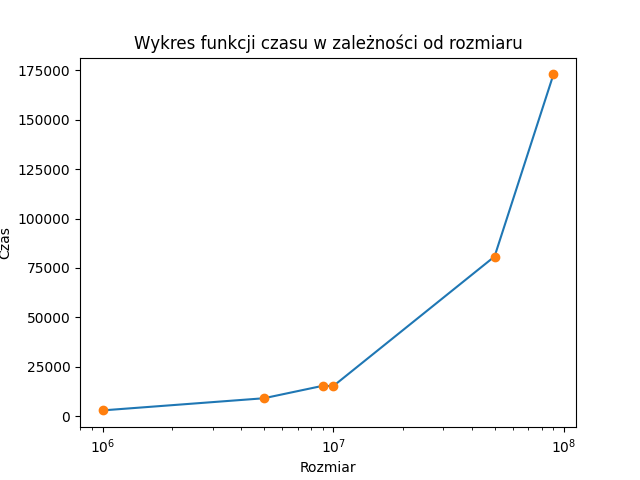
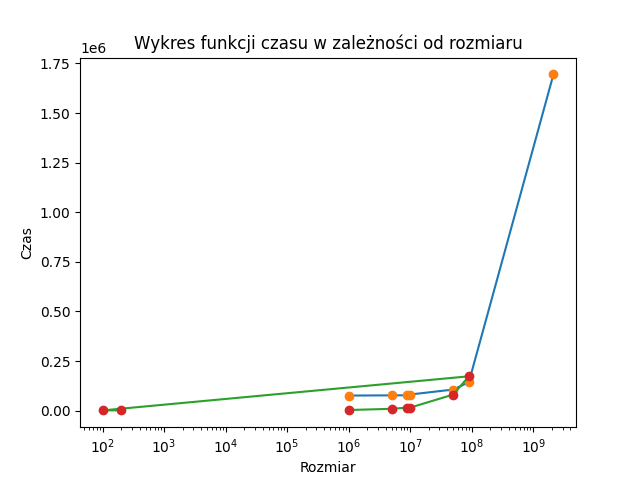
profiling preparation

diff --git a/main.py b/main.py
@@ -34,36 +34,29 @@ def read_csv(file_path):
     return avg_data.keys(), avg_data.values()
 
 
-def plot_and_save_data(sizes, times, plot_path):
+def plot_and_save_data(pairs, plot_path):
     plt.clf()
+    for sizes, times in pairs:
+        plt.plot(sizes, times, '-')
+        plt.plot(sizes, times, 'o')
 
-    # Connect the points with a line
-    plt.plot(sizes, times, '-')
-
-    # Create a plot
-    plt.plot(sizes, times, 'o')
-
-    # Add a title
+    plt.xscale('log')
     plt.title('Wykres funkcji czasu w zależności od rozmiaru')
-
-    # Add labels
     plt.xlabel('Rozmiar')
     plt.ylabel('Czas')
-
-    # Save the plot
-    plt.xscale('log')
     plt.savefig(plot_path)
 
 
 def main():
-    file_names = ['outputEraGPU', 'outputEraCPU', 'outputSundaGPU', 'outputSundaCPU']
+    groups = [['outputEraGPU', 'outputEraCPU'], ['outputSundaGPU', 'outputSundaCPU']]
 
-    for file_name in file_names:
-        # Read the CSV file
-        sizes, times = read_csv(f'{file_name}.csv')
+    for group in groups:
+        pairs = []
+        for file_name in group:
+            # Read the CSV file
+            pairs.append(read_csv(f'{file_name}.csv'))
 
-        # Plot and save the data
-        plot_and_save_data(sizes, times, f'{file_name}.png')
+        plot_and_save_data(pairs, f'{file_name}.png')
 
 if __name__ == '__main__':
     main()
